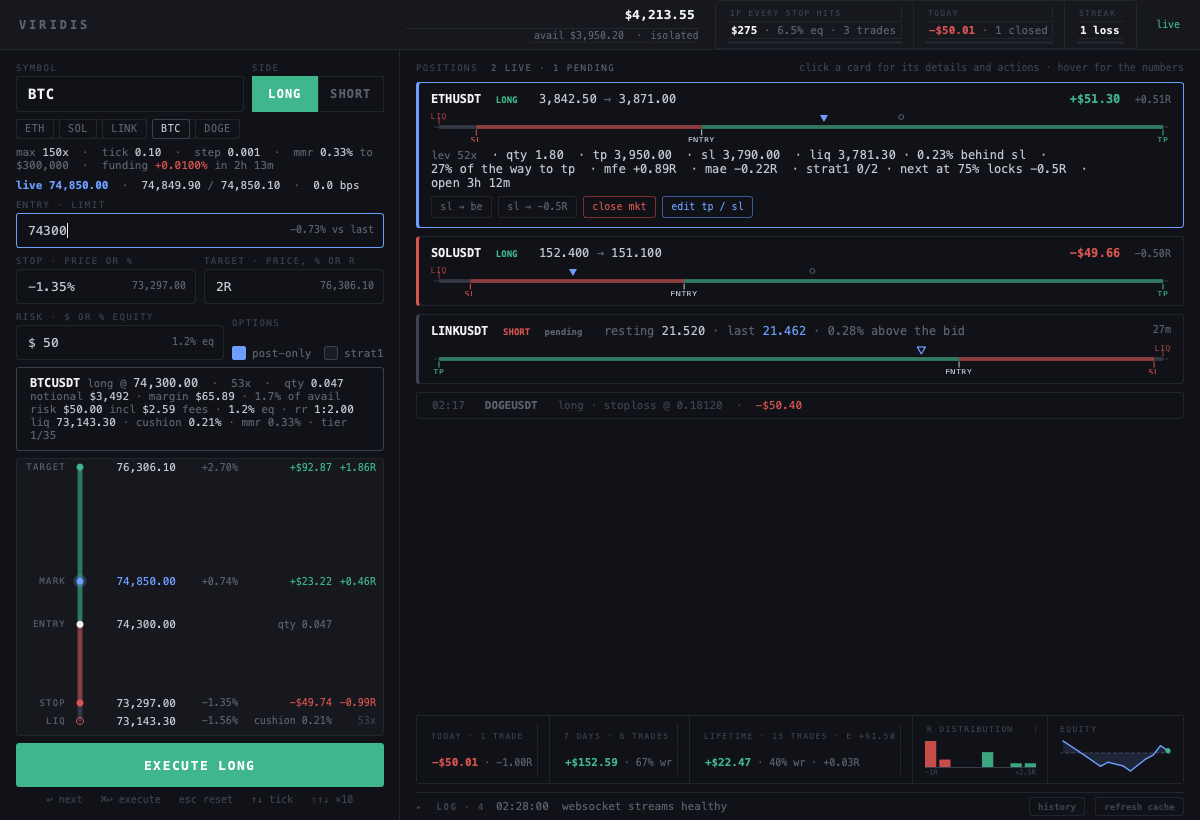
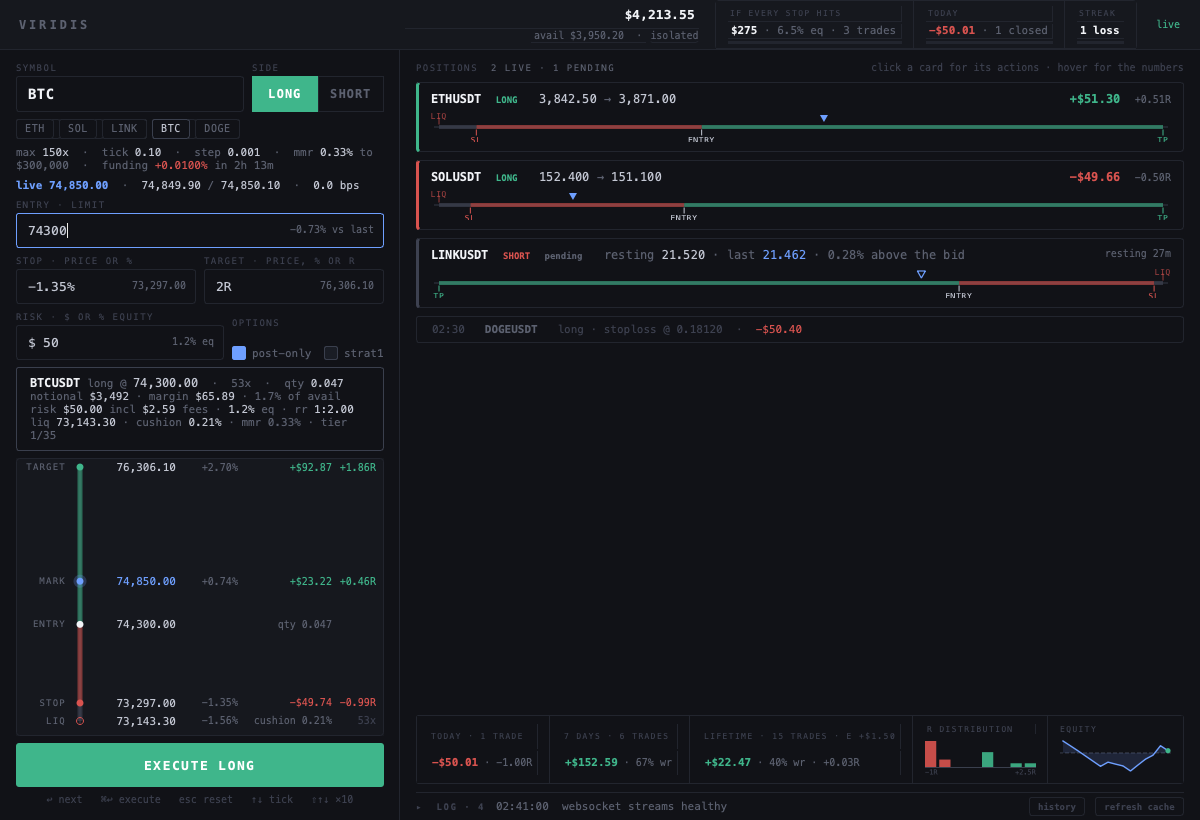
Cards: numbers on hover only, actions on click, nothing unfolded by default
- the detail line is gone from the card; the numbers live in the tooltip.
  Clicking a card toggles its action buttons, one card at a time, and no
  card is unfolded on its own — before, the first card auto-selected and
  selection meant expansion, so with one trade the numbers were always on
- the best-price marker is gone from the mini ladder; best/worst
  excursion are named as such in the tooltip and the journal, and the
  tooltip's time is time in the trade, not time since the order

diff --git a/docs/index.html b/docs/index.html
@@ -321,13 +321,13 @@ liq ≈ 74300 × (1 − 1/48 + 0.005) = 73,124  <span class="c">→ 0.23% behind
     the dollars at that level and the R. The cushion between liquidation and stop is visible, not implied.</li>
   </ul>
   <h3>Cards</h3>
-  <p>One per active trade. At rest a card is a header — symbol, side, entry → mark, PnL in $ and R — over a
-  mini ladder with stop, target and liquidation. Clicking a card unfolds its details (leverage, quantity, the
-  cushion behind the stop, progress to target, MFE/MAE in R, Strat1 phase, a taker-entry flag) and its
-  actions — stop to break-even, stop to −0.5R, close at market, cancel, edit TP/SL; only one card is
-  unfolded at a time, and hovering any card shows the same numbers as a tooltip. Actions resolve to the
-  core's own trade object, so the next ticker snapshot carries the change instead of reverting it. A stop
-  that would trigger immediately is refused before it is sent.</p>
+  <p>One per active trade: a header — symbol, side, entry → mark, PnL in $ and R — over a mini ladder with
+  stop, target, liquidation and the price caret. Clicking a card unfolds its actions — stop to break-even,
+  stop to −0.5R, close at market, cancel, edit TP/SL — one card at a time and none by default. The numbers
+  (leverage, quantity, the cushion behind the stop, progress to target, best and worst excursion in R,
+  Strat1 phase, a taker-entry flag, time in the trade) live in the tooltip and show on hover only. Actions
+  resolve to the core's own trade object, so the next ticker snapshot carries the change instead of
+  reverting it. A stop that would trigger immediately is refused before it is sent.</p>
   <h3>Governance strip</h3>
   <p>Three numbers: what you lose if every active stop hits (the sum of the dollars at the stops, derived
   from the bracket for positions the app did not place — nothing to do with liquidation), today's realised

diff --git a/views.py b/views.py
@@ -96,9 +96,9 @@ def local_midnight() -> float:
 
 class TradeCard(QFrame):
     """
-    One active trade. At rest: a header line and the mini ladder. Selected
-    (clicked): the detail line and the action buttons unfold; the same
-    details show as a tooltip on hover. Reports through `on_select(key)` and
+    One active trade: a header line and the mini ladder. Clicking the card
+    unfolds its action buttons (one card at a time); the numbers live in the
+    tooltip and show on hover only. Reports through `on_select(key)` and
     `on_action(key, action, payload)`; actions are "be", "half", "close",
     "cancel" and "apply" (payload: tp/sl text).
     """
@@ -125,12 +125,6 @@ class TradeCard(QFrame):
 
         self.mini = MiniLadder()
         lay.addWidget(self.mini)
-
-        self.details = QLabel("")
-        self.details.setTextFormat(Qt.TextFormat.RichText)
-        self.details.setWordWrap(True)
-        self.details.hide()
-        lay.addWidget(self.details)
 
         self.actions = QWidget()
         acts = QHBoxLayout(self.actions)
@@ -177,7 +171,6 @@ class TradeCard(QFrame):
         return b
 
     def _clicked(self, action: str) -> None:
-        self._on_select(self.key)
         if action == "edit":
             show = not self.edit_row.isVisible()
             self.edit_row.setVisible(show)
@@ -205,13 +198,12 @@ class TradeCard(QFrame):
         self.update()
 
     def set_selected(self, on: bool) -> None:
-        """Selection is also expansion: only the selected card shows details and actions."""
+        """The selected card is the unfolded one: it shows its action buttons."""
         if bool(self.property("selected")) != on:
             self.setProperty("selected", on)
             self._repolish()
         if self._expanded != on:
             self._expanded = on
-            self.details.setVisible(on)
             self.actions.setVisible(on)
             if not on:
                 self.hide_edit()
@@ -279,7 +271,7 @@ class TradeCard(QFrame):
             if ref and entry:
                 gap = abs(float(ref) - entry) / entry
                 head += dim(f" · {gap * 100:.2f}% {'below the ask' if long else 'above the bid'}")
-            right = span(age_str(t.opened_at), T.TEXT_DIM, 10)
+            right = span(f"resting {age_str(t.opened_at)}", T.TEXT_DIM, 10)
         self.line1.setText(
             f"<table width='100%' cellspacing='0' cellpadding='0'><tr>"
             f"<td>{head}</td><td align='right'>{right}</td></tr></table>"
@@ -287,48 +279,44 @@ class TradeCard(QFrame):
 
         # Live: the caret is the mark (PnL and liquidation reference). Resting:
         # a hollow caret at the last traded price, which is what fills the entry.
-        self.mini.set_levels(entry, sl, tp, liq, mark if live else t.last_price,
-                             t.mfe_price if live else None, pending=not live)
+        self.mini.set_levels(entry, sl, tp, liq, mark if live else t.last_price, pending=not live)
 
-        # ── Details: unfold on click, tooltip on hover ──
-        parts = [f"lev {v((t.leverage or '--') + 'x')}",
-                 f"qty {v(t.qty or t.entry_qty or '--')}",
-                 f"tp {v(px(tp))}", f"sl {v(px(sl))}"]
+        # ── The numbers: tooltip only ──
+        lines = [f"lev {v((t.leverage or '--') + 'x')} · qty {v(t.qty or t.entry_qty or '--')}",
+                 f"tp {v(px(tp))} · sl {v(px(sl))}"]
         if liq and entry and sl:
             cushion = (sl - liq) / entry if long else (liq - sl) / entry
             ccol = T.NEGATIVE if cushion <= 0 else (T.AMBER if cushion < 0.001 else T.TEXT)
-            parts.append(f"liq {v(px(liq))} · {span(f'{cushion * 100:.2f}%', ccol, weight=500)} behind sl"
-                         + (" (est)" if liq_est else ""))
+            lines.append(f"liq {v(px(liq))} · {span(f'{cushion * 100:.2f}%', ccol, weight=500)} behind the stop"
+                         + (" (estimate)" if liq_est else ""))
         if live and tp and entry and mark and tp != entry:
             prog = (mark - entry) / (tp - entry) if long else (entry - mark) / (entry - tp)
-            parts.append(f"{v(f'{prog * 100:.0f}%')} of the way to tp")
+            lines.append(f"{v(f'{prog * 100:.0f}%')} of the way to the target")
         if live and dist and entry:
+            best = worst = None
             if t.mfe_price:
-                r = (t.mfe_price - entry) / dist if long else (entry - t.mfe_price) / dist
-                parts.append(f"mfe {span(fmt_r(r), T.POSITIVE)}")
+                best = (t.mfe_price - entry) / dist if long else (entry - t.mfe_price) / dist
             if t.mae_price:
-                r = (t.mae_price - entry) / dist if long else (entry - t.mae_price) / dist
-                parts.append(f"mae {span(fmt_r(r), T.NEGATIVE)}")
+                worst = (t.mae_price - entry) / dist if long else (entry - t.mae_price) / dist
+            if best is not None or worst is not None:
+                lines.append("so far: best " + (span(fmt_r(best), T.POSITIVE) if best is not None else "--")
+                             + " · worst " + (span(fmt_r(worst), T.NEGATIVE) if worst is not None else "--"))
         if t.entry_is_maker is False:
-            parts.append(span(f"taker entry · fee ${t.entry_fee_actual or 0:.2f}", T.NEGATIVE))
+            lines.append(span(f"entry filled as taker · fee ${t.entry_fee_actual or 0:.2f}", T.NEGATIVE))
         if t.strat1_enabled:
             n = len(ratchet)
             if t.strat1_phase >= n:
-                parts.append(f"strat1 {v('done')}")
+                lines.append(f"strat1 {v('done')}")
             else:
                 nxt = ratchet[t.strat1_phase]
-                parts.append(f"strat1 {v(f'{t.strat1_phase}/{n}')} · next at {nxt[0] * 100:.0f}% "
+                lines.append(f"strat1 {v(f'{t.strat1_phase}/{n}')} · next at {nxt[0] * 100:.0f}% "
                              f"locks {nxt[1]:+.1f}R")
         if not live:
-            parts.append(f"risk {v(fmt_usd(risk, 0, signed=False) if risk else '?')}")
-            if tp and entry and dist:
-                parts.append(f"rr {v(f'1:{abs(tp - entry) / dist:.2f}')}")
-        elif t.opened_at:
-            parts.append(f"open {age_str(t.opened_at)}")
-        # Items wrap as a whole, never in the middle of "mae −0.22R".
-        parts = [p.replace(" ", "&nbsp;") for p in parts]
-        self.details.setText(span(" &nbsp;· ".join(parts), T.TEXT_DIM, 10.5))
-        self.setToolTip("<span style='font-size:11px;'>" + "<br>".join(parts) + "</span>")
+            lines.append(f"risk {v(fmt_usd(risk, 0, signed=False) if risk else '?')}"
+                         + (f" · rr {v(f'1:{abs(tp - entry) / dist:.2f}')}" if tp and entry and dist else ""))
+        elif t.live_since or t.opened_at:
+            lines.append(f"in the trade {age_str(t.live_since or t.opened_at)}")
+        self.setToolTip("<span style='font-size:11px;'>" + "<br>".join(lines) + "</span>")
 
         for b in (self.btn_be, self.btn_half, self.btn_close):
             b.setVisible(live)
@@ -387,7 +375,7 @@ class JournalDialog(QDialog):
         def rs(v) -> str:
             return f"{v:+.2f}R" if v is not None else "—"
 
-        header = f"{'date':<17}{'symbol':<13}{'side':<6}{'pnl':>12}{'R':>9}{'mfe':>9}{'mae':>9}{'hold':>9}"
+        header = f"{'date':<17}{'symbol':<13}{'side':<6}{'pnl':>12}{'R':>9}{'best':>9}{'worst':>9}{'hold':>9}"
         rows = [f"<span style='color:{T.TEXT_MUTED};'>{esc(header)}</span>"]
         for t in sorted(trades, key=lambda x: x.get("closed_at") or 0, reverse=True):
             ts = t.get("closed_at")

diff --git a/main.py b/main.py
@@ -410,7 +410,7 @@ class MainWindow(QMainWindow):
         self.board_count.setStyleSheet(f"font-size: 9px; letter-spacing: 1.5px; color: {T.TEXT_DIM};")
         head.addWidget(self.board_count)
         head.addStretch()
-        hint = QLabel("click a card for its details and actions · hover for the numbers")
+        hint = QLabel("click a card for its actions · hover for the numbers")
         hint.setStyleSheet(f"font-size: 10px; color: {T.TEXT_MUTED};")
         head.addWidget(hint)
         lay.addLayout(head)
@@ -1175,7 +1175,6 @@ class MainWindow(QMainWindow):
             self._append_log(f"execution error: {error_msg or 'unknown error'}", True)
         else:
             self._trades[trade.entry_order_id] = trade.clone()
-            self._selected_key = trade.entry_order_id
             self._update_trade_panel()
             self._update_governance()
             self._refresh_chips()
@@ -1186,12 +1185,11 @@ class MainWindow(QMainWindow):
     #  Card actions
     # ─────────────────────────────────────────────────────────────
 
-    def _select_card(self, key: str):
-        if key == self._selected_key:
-            return
-        self._selected_key = key
+    def _toggle_card(self, key: str):
+        """Click a card to unfold its actions, click again to fold. One at a time, none by default."""
+        self._selected_key = None if key == self._selected_key else key
         for k, card in self._cards.items():
-            card.set_selected(k == key)
+            card.set_selected(k == self._selected_key)
 
     def _card_action(self, key: str, action: str, payload: Optional[dict] = None):
         t = self._trades.get(key)
@@ -1318,7 +1316,7 @@ class MainWindow(QMainWindow):
         for k, t in active.items():
             card = self._cards.get(k)
             if card is None:
-                card = TradeCard(k, on_select=self._select_card, on_action=self._card_action)
+                card = TradeCard(k, on_select=self._toggle_card, on_action=self._card_action)
                 self._cards[k] = card
                 # Before the closed row and the trailing stretch
                 self.cards_layout.insertWidget(self.cards_layout.count() - 2, card)
@@ -1326,7 +1324,7 @@ class MainWindow(QMainWindow):
                              self._core.ratchet,
                              ticker=None if t.is_live else self._core.get_ticker(t.symbol))
         if self._selected_key not in active:
-            self._selected_key = next(iter(active), None)
+            self._selected_key = None
         for k, card in self._cards.items():
             card.set_selected(k == self._selected_key)
 

diff --git a/widgets.py b/widgets.py
@@ -214,8 +214,7 @@ class Ladder(QWidget):
 # ──────────────────────────────────────────────────────────────────
 
 class MiniLadder(QWidget):
-    """One-line track: liq · stop · entry · target, with the mark as a caret
-    and the max favourable excursion as a hollow dot."""
+    """One-line track: liq · stop · entry · target, with the price as a caret."""
 
     def __init__(self, parent=None):
         super().__init__(parent)
@@ -225,10 +224,10 @@ class MiniLadder(QWidget):
 
     def set_levels(self, entry: Optional[float], sl: Optional[float], tp: Optional[float],
                    liq: Optional[float] = None, mark: Optional[float] = None,
-                   mfe: Optional[float] = None, pending: bool = False) -> None:
+                   pending: bool = False) -> None:
         """`mark` is the caret. For a resting entry pass the last traded price and
         pending=True: the caret is drawn hollow until the fill turns it solid."""
-        self._levels = {"entry": entry, "sl": sl, "tp": tp, "liq": liq, "mark": mark, "mfe": mfe}
+        self._levels = {"entry": entry, "sl": sl, "tp": tp, "liq": liq, "mark": mark}
         self._pending = pending
         self.update()
 
@@ -274,10 +273,6 @@ class MiniLadder(QWidget):
                 p.drawLine(QPointF(xx, ty + 3), QPointF(xx, ty + 8))
                 p.drawText(QRectF(xx - 24, ty + 9, 48, 9), _CENTER, label)
 
-        if L.get("mfe"):
-            p.setPen(QPen(_c(T.TEXT_DIM), 1))
-            p.setBrush(Qt.BrushStyle.NoBrush)
-            p.drawEllipse(QPointF(x(L["mfe"]), 5), 2.5, 2.5)
         if L.get("mark"):
             xx = x(L["mark"])
             if self._pending:

diff --git a/README.md b/README.md
@@ -17,7 +17,7 @@ Every exchange ticket asks for a size and a leverage. Neither is something you k
 1. **Fill the ticket.** Symbol, entry, a stop as a price or a distance (`-0.8%`), an optional target as a price, a percent (`+3%`) or a multiple of the stop distance (`2R`), and the risk in dollars or as a share of equity (`1%`). Arrow keys nudge prices by one tick.
 2. **Read the preview.** It recomputes as you type: quantity, leverage, margin, fees, reward-to-risk, the estimated liquidation price and the cushion between it and your stop. Warnings appear ranked: amber ones ask for a confirmation, red ones block.
 3. **Send.** ⌘Enter opens a confirm sheet with the same numbers and warnings. One API call places a limit entry carrying a limit take-profit and a market stop-loss that triggers on mark price. Post-only is on by default: a limit that would cross the book is cancelled instead of filling as taker.
-4. **Manage.** The trade becomes a card: entry, mark, PnL in dollars and R, and a mini ladder with the stop, the target and the liquidation price. While the entry is still resting, a hollow caret tracks the last traded price against it, so you can see how close the fill is; it turns solid when the trade is on. Click it and the details unfold, leverage, quantity, cushion, best and worst excursion, with the buttons that matter: stop to break-even, stop to −0.5R, edit target or stop, cancel, close at market. Hover any card for the same numbers.
+4. **Manage.** The trade becomes a card: entry, mark, PnL in dollars and R, and a mini ladder with the stop, the target and the liquidation price. While the entry is still resting, a hollow caret tracks the last traded price against it, so you can see how close the fill is; it turns solid when the trade is on. Click the card for the buttons that matter: stop to break-even, stop to −0.5R, edit target or stop, cancel, close at market. Hover it for the numbers: leverage, quantity, cushion, progress to the target, the best and worst the trade has been, time in the trade.
 5. **Review.** When the trade closes, the journal takes Bybit's closed-PnL record, which is fee-inclusive, and attaches the R-multiple plus maximum favourable and adverse excursion. The strip at the bottom shows today, the last seven days and lifetime.
 
 ## The arithmetic, once
